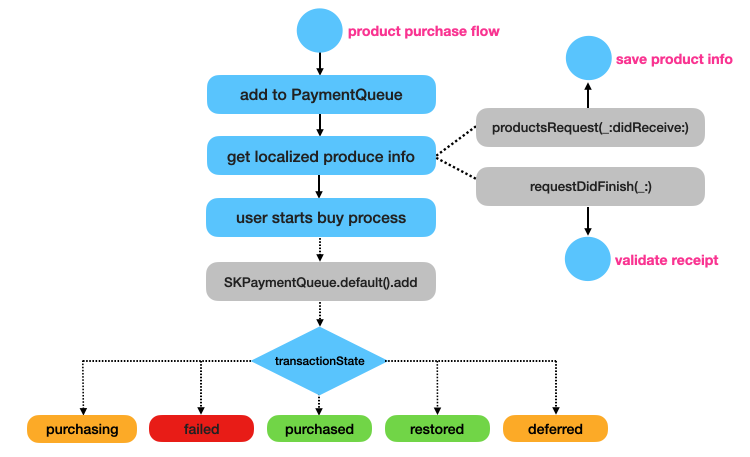
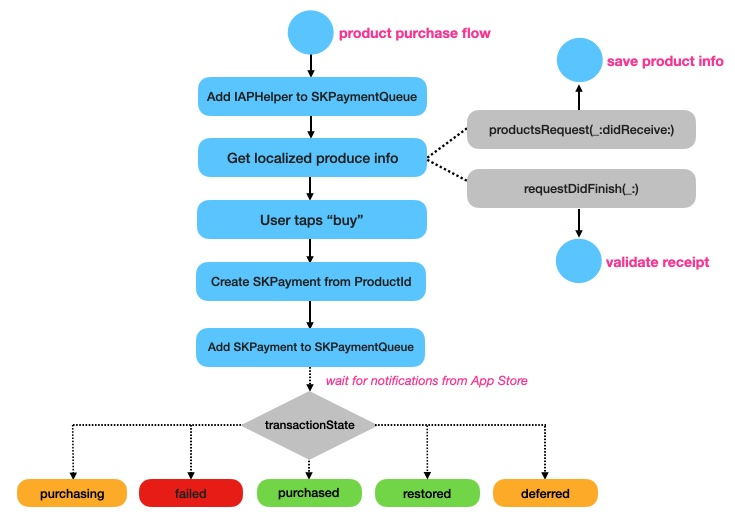
Updated readme

diff --git a/IAPHelper/IAPHelper+AppStore.swift b/IAPHelper/IAPHelper+AppStore.swift
@@ -86,9 +86,9 @@ extension IAPHelper {
         }
 
         purchaseCompletion = completion  // Save the completion block for later use
-        
-        let payment = SKPayment(product: product)  // Wrap the product in an SKPayment object
         isPurchasing = true
+        
+        let payment = SKPayment(product: product)  // Wrap the SKProduct in an SKPayment object
         SKPaymentQueue.default().add(payment)
     }
     

diff --git a/IAPHelper/README.md b/IAPHelper/README.md
@@ -5,31 +5,34 @@ Implementing and testing In-App Purchases in Xcode 12 and iOS 14
 ## Synopsis
 In this document we will review:
 
-* **[Basic Steps](#Basic-Steps)**: An overview of what it takes to support in-app purchases in an iOS app
-* **[Basic Example](#Basic-Example)**: A basic example of how to handle in-app purchases
+* **[Overview](#Overview)**: An overview of what it takes to support in-app purchases in an iOS app
+* **[Basic Steps](#Basic-Steps)**: The principle things you need to do to support in-app purchases
 * **[Xcode 12 Improvements](#Xcode-12-Improvements)**: In-app purchase-related improvements in Xcode 12 and iOS 14
+* **[Basic Example](#Basic-Example)**: A basic example of how to handle in-app purchases
 * **[Receipt Validation Approaches](#Receipt-Validation-Approaches)**: Approaches to validating and reading the App Store receipt
 * **[IAPHelper Framework](#IAPHelper-Framework)**: An example of how to wrap-up in-app purchase related code in a framework
 
-## Basic Steps
-The code we write to manage in-app purchases is critically important to the success of our apps. However, let's say it out loud: 
-if you've not tackled it before, implementing and testing in-app purchases is daunting, complex and seems *way* more involved than 
-you'd expect!   
+## Overview
+The code we write to manage in-app purchases is critically important to the success of our apps. However, if you've not tackled it 
+before, implementing and testing in-app purchases is daunting, complex and seems *way* more involved than you'd expect!   
 
 Anybody wanting to support in-app purchases faces a similar set of challenges:
 
-* How do you define a set of products your app supports?
-* Working with StoreKit to request localized product data and initiate purchases (and restoring purchases) 
-* Implementing StoreKit delegate methods to process async notifications of purchase success, failure, etc.
+* How do you define the set of products that can be purchased in your app?
+* Defining your in-app purchases in App Store Connect
+* Working with StoreKit to request *localized* product data from the App Store and initiate purchases
+* Implementing StoreKit delegate methods to process async notifications for purchase success, failure, restoring purchases, etc.
 * Handling edge-cases, like when a purchase is deferred because it requires parental permissions, or when entitlements for a user have changed and access to the specified IAPs has been revoked
 * Should you handle App Store receipt validation on-device or server-side?
 * Should you write your own receipt validation code or use a service like RevenueCat?
 * Working with OpenSSL and the arcane ASN.1 data structures found in receipts
 * Writing code to validate the receipt and read in-app purchase data
-* Defining in-app purchases in App Store Connect
 * Creating and managing sandbox accounts used for testing
 
 When I first implemented in-app purchases in one of my apps in 2016 the two main pain-points were:
+
+* [Receipt validation](#Receipt-validation)
+* [Sandbox accounts](#Sandbox-accounts)
 
 ### Receipt validation
 The App Store issues an encrypted receipt when in-app purchases are made. This receipt contains a complete list of all in-app 
@@ -46,20 +49,20 @@ JSON payloads that include all the in-app purchase data you need.
 to decrypt and read the data. Note that including the required two OpenSSL libraries adds nearly 50MB to your app. 
 
 Back in 2016 I fully expected StoreKit or some other Apple framework to provide ready-to-use abstractions allowing for easy access 
-to the low-level cryptographic data structures in the receipt. However, as I looked deeper into this "where's the receipt processing framework?"
+to the low-level cryptographic data structures in the receipt. However, as I looked deeper into the "where's the receipt processing framework?"
 conundrum the more the answer became clear: having a ready-to-use framework creates a security risk because "hackers" wishing to access your
 in-app purchases for-free know in advance where and how to concentrate their attacks. Apple's answer was (*and still is*): create your own custom 
 receipt validation solution because a unique solution will be harder to hack.
 
-Clearly a custom solution (if done correctly!) will be more secure. But, as all developers know that have attempted it, writing security-critical 
-cryptographic-related code is **hard** and if you get it wrong diasters will happen! In my opinion, surely it would be better for Apple to
+Clearly a custom solution (if done correctly) will be more secure. But, as all developers know that have attempted it, writing security-critical 
+cryptographic-related code is **hard** and if you get it wrong disasters will happen! In my opinion, surely it would be better for Apple to
 provide something that enables correct and *reasonably secure* receipt validation for the general app developer? 
 
-However, at present (August 2020) you have no choice if you want to validate and read receipt data on-device you must develop your
+However, at present (August 2020) you have no choice if you want to validate and read receipt data on-device: you must develop your
 own OpenSSL-based solution. If you don't feel confident doing this feel free to adapt (or use as-is) the code presented in the 
 [IAPHelper Framework](#IAPHelper-Framework). 
     
-### Working with sandbox accounts to test in-app purchases
+### Sandbox accounts
 Prior to Xcode 12, in order to test in-app purchases you needed to create multiple sandbox test accounts in App Store Connect. 
 Each sandbox account has to have a unique email address and be validated as an AppleID. In addition, tests must be on a real device, 
 not the simulator. 
@@ -69,14 +72,50 @@ spare device to do testing on. To make things more painful, each time you make a
 becomes "used up" and can't be used to re-purchase the same product. There's no way to clear purchases, so you need to use a fresh 
 sandbox account for each set of product purchases.
 
-## Basic Example
+## Basic Steps
+The basic steps you need to take to support in-app purchases (IAP hereafter) in your app are as follows:
 
 ![](./readme-assets/iap1.jpg)
 
+1. Create an IAP helper class\
+\
+Create a class or struct that will contain all your IAP-related code. For the sake of example we'll refer to this as the **IAPHelper** code
+
+2. Define your ProductIds\
+\
+Define a set of Strings that hold **ProductIds** for the products you want to sell. ProductIds take the form "com.your-company.your-product". For example, "com.rarcher.flowers-large". These ids will match the products you define on App Store Connect
+
+3. Add your IAPHelper to the Payment Queue\
+\
+To receive notifications from the App Store (when payments are successful, fail, are restored, etc.) add your IAPHelper to the StoreKit payment queue using:\
+\
+``` swift
+SKPaymentQueue.default().add(self)
+```
+\
+
+4. Request *localized* product information from the App Store\
+\
+The **SKProductsRequestDelegate** method **productsRequest(_:didReceive:)** will be called asynchronously with a list of **SKProduct** objects. Note that you can't simply use predefined product data because you need to display prices, etc. that are *local* for each user
+
+5. Process the App Store Receipt\
+\
+The App Store will asynchronously send a Receipt that can be received on the **SKRequestDelegate** method requestDidFinish(_:). This receipt, which is cryptographically signed and encrypted, contains a complete record of all the IAPs made by user for your app
+
+6. Present the localized product list to the user and handle purchases\
+\
+When the user taps on a product you should wrap the selected **SKProduct** in an **SKPayment** object and then add it to the **SKPaymentQueue**. The App Store will then send notifications to the **SKPaymentTransactionObserver** method **paymentQueue(_:updatedTransactions)** as the purchase progresses. Note that the App Store presents the user with all the required purchase prompts and confirmations
+
 ## Xcode 12 Improvements
+Todo
+
+## Basic Example
+Todo
 
 ## Receipt Validation Approaches
+Todo
 
 ## IAPHelper Framework
+Todo
 
 

diff --git a/README.md b/README.md
@@ -5,31 +5,34 @@ Implementing and testing In-App Purchases in Xcode 12 and iOS 14
 ## Synopsis
 In this document we will review:
 
-* **[Basic Steps](#Basic-Steps)**: An overview of what it takes to support in-app purchases in an iOS app
-* **[Basic Example](#Basic-Example)**: A basic example of how to handle in-app purchases
+* **[Overview](#Overview)**: An overview of what it takes to support in-app purchases in an iOS app
+* **[Basic Steps](#Basic-Steps)**: The principle things you need to do to support in-app purchases
 * **[Xcode 12 Improvements](#Xcode-12-Improvements)**: In-app purchase-related improvements in Xcode 12 and iOS 14
+* **[Basic Example](#Basic-Example)**: A basic example of how to handle in-app purchases
 * **[Receipt Validation Approaches](#Receipt-Validation-Approaches)**: Approaches to validating and reading the App Store receipt
 * **[IAPHelper Framework](#IAPHelper-Framework)**: An example of how to wrap-up in-app purchase related code in a framework
 
-## Basic Steps
-The code we write to manage in-app purchases is critically important to the success of our apps. However, let's say it out loud: 
-if you've not tackled it before, implementing and testing in-app purchases is daunting, complex and seems *way* more involved than 
-you'd expect!   
+## Overview
+The code we write to manage in-app purchases is critically important to the success of our apps. However, if you've not tackled it 
+before, implementing and testing in-app purchases is daunting, complex and seems *way* more involved than you'd expect!   
 
 Anybody wanting to support in-app purchases faces a similar set of challenges:
 
-* How do you define a set of products your app supports?
-* Working with StoreKit to request localized product data and initiate purchases (and restoring purchases) 
-* Implementing StoreKit delegate methods to process async notifications of purchase success, failure, etc.
+* How do you define the set of products that can be purchased in your app?
+* Defining your in-app purchases in App Store Connect
+* Working with StoreKit to request *localized* product data from the App Store and initiate purchases
+* Implementing StoreKit delegate methods to process async notifications for purchase success, failure, restoring purchases, etc.
 * Handling edge-cases, like when a purchase is deferred because it requires parental permissions, or when entitlements for a user have changed and access to the specified IAPs has been revoked
 * Should you handle App Store receipt validation on-device or server-side?
 * Should you write your own receipt validation code or use a service like RevenueCat?
 * Working with OpenSSL and the arcane ASN.1 data structures found in receipts
 * Writing code to validate the receipt and read in-app purchase data
-* Defining in-app purchases in App Store Connect
 * Creating and managing sandbox accounts used for testing
 
 When I first implemented in-app purchases in one of my apps in 2016 the two main pain-points were:
+
+* [Receipt validation](#Receipt-validation)
+* [Sandbox accounts](#Sandbox-accounts)
 
 ### Receipt validation
 The App Store issues an encrypted receipt when in-app purchases are made. This receipt contains a complete list of all in-app 
@@ -46,20 +49,20 @@ JSON payloads that include all the in-app purchase data you need.
 to decrypt and read the data. Note that including the required two OpenSSL libraries adds nearly 50MB to your app. 
 
 Back in 2016 I fully expected StoreKit or some other Apple framework to provide ready-to-use abstractions allowing for easy access 
-to the low-level cryptographic data structures in the receipt. However, as I looked deeper into this "where's the receipt processing framework?"
+to the low-level cryptographic data structures in the receipt. However, as I looked deeper into the "where's the receipt processing framework?"
 conundrum the more the answer became clear: having a ready-to-use framework creates a security risk because "hackers" wishing to access your
 in-app purchases for-free know in advance where and how to concentrate their attacks. Apple's answer was (*and still is*): create your own custom 
 receipt validation solution because a unique solution will be harder to hack.
 
-Clearly a custom solution (if done correctly!) will be more secure. But, as all developers know that have attempted it, writing security-critical 
-cryptographic-related code is **hard** and if you get it wrong diasters will happen! In my opinion, surely it would be better for Apple to
+Clearly a custom solution (if done correctly) will be more secure. But, as all developers know that have attempted it, writing security-critical 
+cryptographic-related code is **hard** and if you get it wrong disasters will happen! In my opinion, surely it would be better for Apple to
 provide something that enables correct and *reasonably secure* receipt validation for the general app developer? 
 
-However, at present (August 2020) you have no choice if you want to validate and read receipt data on-device you must develop your
+However, at present (August 2020) you have no choice if you want to validate and read receipt data on-device: you must develop your
 own OpenSSL-based solution. If you don't feel confident doing this feel free to adapt (or use as-is) the code presented in the 
 [IAPHelper Framework](#IAPHelper-Framework). 
     
-### Working with sandbox accounts to test in-app purchases
+### Sandbox accounts
 Prior to Xcode 12, in order to test in-app purchases you needed to create multiple sandbox test accounts in App Store Connect. 
 Each sandbox account has to have a unique email address and be validated as an AppleID. In addition, tests must be on a real device, 
 not the simulator. 
@@ -69,14 +72,50 @@ spare device to do testing on. To make things more painful, each time you make a
 becomes "used up" and can't be used to re-purchase the same product. There's no way to clear purchases, so you need to use a fresh 
 sandbox account for each set of product purchases.
 
-## Basic Example
+## Basic Steps
+The basic steps you need to take to support in-app purchases (IAP hereafter) in your app are as follows:
 
 ![](./readme-assets/iap1.jpg)
 
+1. Create an IAP helper class\
+\
+Create a class or struct that will contain all your IAP-related code. For the sake of example we'll refer to this as the **IAPHelper** code
+
+2. Define your ProductIds\
+\
+Define a set of Strings that hold **ProductIds** for the products you want to sell. ProductIds take the form "com.your-company.your-product". For example, "com.rarcher.flowers-large". These ids will match the products you define on App Store Connect
+
+3. Add your IAPHelper to the Payment Queue\
+\
+To receive notifications from the App Store (when payments are successful, fail, are restored, etc.) add your IAPHelper to the StoreKit payment queue using:\
+\
+``` swift
+SKPaymentQueue.default().add(self)
+```
+\
+
+4. Request *localized* product information from the App Store\
+\
+The **SKProductsRequestDelegate** method **productsRequest(_:didReceive:)** will be called asynchronously with a list of **SKProduct** objects. Note that you can't simply use predefined product data because you need to display prices, etc. that are *local* for each user
+
+5. Process the App Store Receipt\
+\
+The App Store will asynchronously send a Receipt that can be received on the **SKRequestDelegate** method requestDidFinish(_:). This receipt, which is cryptographically signed and encrypted, contains a complete record of all the IAPs made by user for your app
+
+6. Present the localized product list to the user and handle purchases\
+\
+When the user taps on a product you should wrap the selected **SKProduct** in an **SKPayment** object and then add it to the **SKPaymentQueue**. The App Store will then send notifications to the **SKPaymentTransactionObserver** method **paymentQueue(_:updatedTransactions)** as the purchase progresses. Note that the App Store presents the user with all the required purchase prompts and confirmations
+
 ## Xcode 12 Improvements
+Todo
+
+## Basic Example
+Todo
 
 ## Receipt Validation Approaches
+Todo
 
 ## IAPHelper Framework
+Todo
 
 
